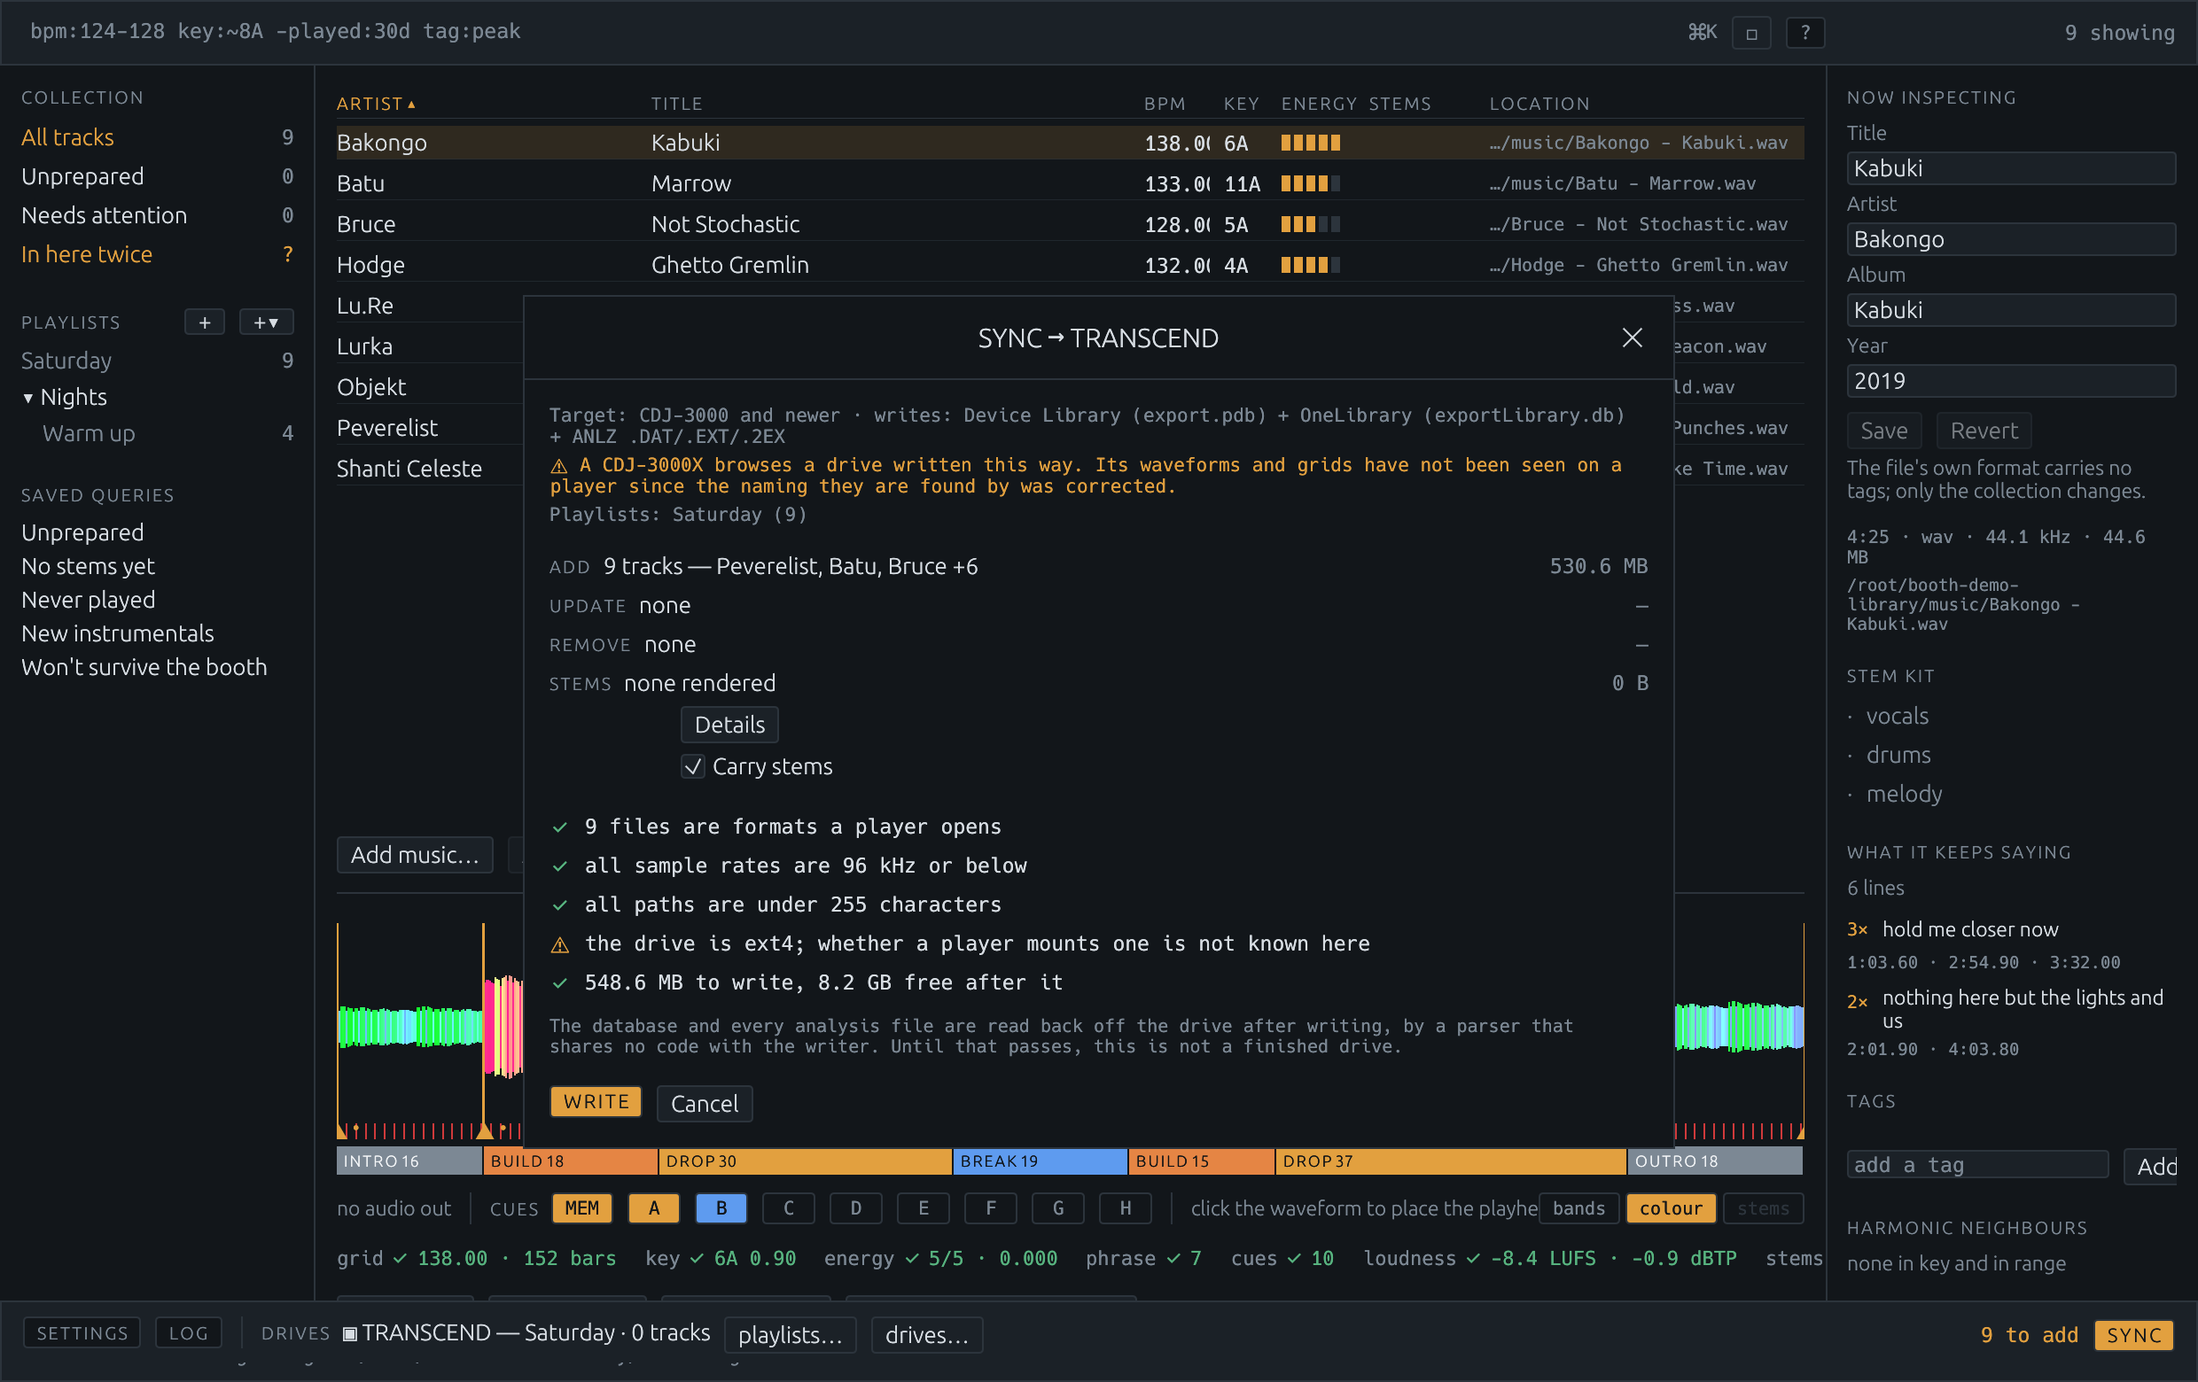
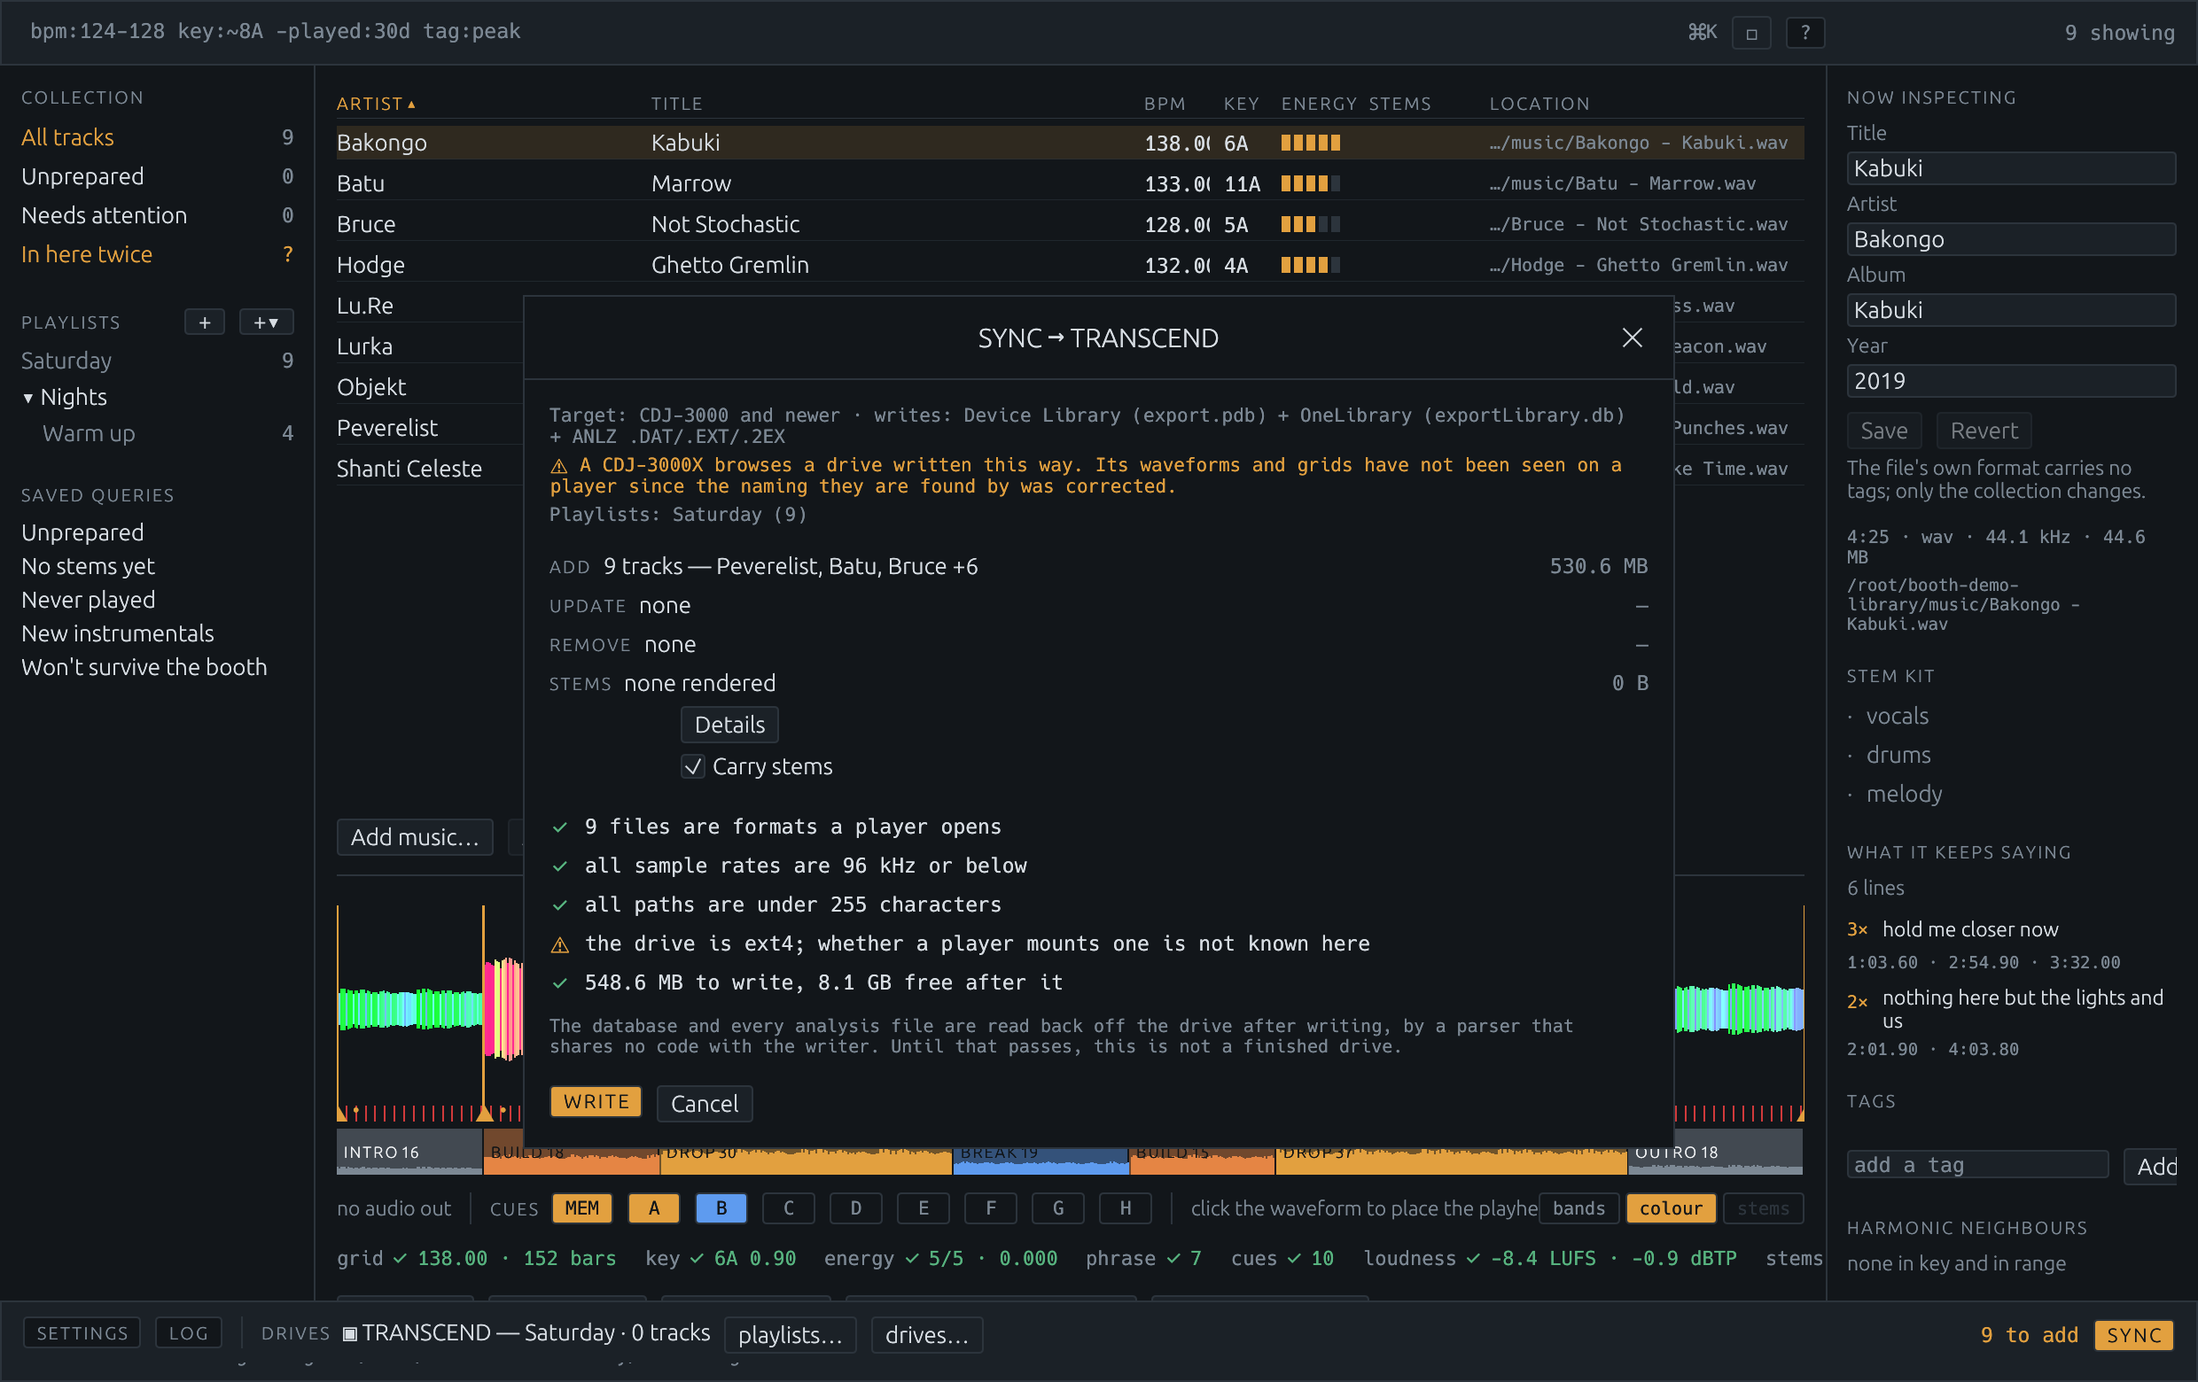
Put the shape of the music under the sections
The phrase strip was a row of flat colour blocks. It said which part of
the record you were looking at and nothing about what the part sounded
like, which left a sixteen-point band under a waveform doing a job a
caption could have done.

So each block now carries the music inside it: the block dimmed to make a
ground, and a silhouette of the track's own loudness standing on the floor
of the strip in the section's colour. Half a waveform rather than a
mirrored one, because mirrored leaves thirteen points either side of a
centre line and the shape comes out as mush — standing on the floor it
gets the whole height, and the eye reads the top edge as the tune. The
strip is ten points taller to pay for it, since at sixteen there was
nothing left after the label.

Measured the same way the picture above it is, so the two are the same
measurement drawn twice rather than two guesses.

**And stretched when the record is flat.** A modern club master runs
within a few decibels of itself from end to end; drawn honestly against
full scale that is a rectangle, which is true and says nothing about where
the break is — the one thing this strip is read for. Below about a third
of full scale of swing between the quiet parts and the loud ones, the
picture is scaled to fill the strip instead, and the hover says so,
because a stretched picture is not the one above it and somebody comparing
the two deserves to know.

Three things it deliberately does not do. The ends of the range are the
[…]

diff --git a/booth/src/wave.rs b/booth/src/wave.rs
@@ -15,7 +15,12 @@ use crate::theme;
 /// How tall the waveform draws, in points.
 pub const HEIGHT: f32 = 132.0;
 /// The strip of phrase names under it.
-pub const STRIP_HEIGHT: f32 = 16.0;
+///
+/// Taller than the sixteen points it was when it held nothing but a label,
+/// because it now carries the shape of the music as well: at sixteen the
+/// silhouette had about eight points of swing left after the text, which is
+/// not enough to tell a build from a break.
+pub const STRIP_HEIGHT: f32 = 26.0;
 
 /// The bytes in one column of the three-band preview, as the format stores
 /// them: mid, high, low.
@@ -932,12 +937,85 @@ fn phrase_help(phrase: &Phrase, beat_ms: &[u32]) -> String {
     }
 }
 
+/// How much of the strip's height the loudest part of the record fills.
+///
+/// Not all of it: a silhouette that touches the top edge reads as clipped, and
+/// the label has to stay legible over the loud parts.
+const SILHOUETTE: f32 = 0.78;
+
+/// Below this much swing between the quiet parts and the loud ones, the
+/// picture is stretched to fill the strip.
+///
+/// A modern club master is limited to within a few decibels of itself from end
+/// to end. Drawn honestly against full scale that is a rectangle — true, and
+/// it says nothing about where the break is, which is the one thing this strip
+/// is read for. Measured on the records this was built against, a dynamic
+/// record swings by about 0.6 of full scale across its sections and a limited
+/// one by under 0.2.
+const FLAT_ENOUGH: f32 = 0.35;
+
+/// How tall the quietest part is drawn after a stretch.
+///
+/// Not zero. Stretching a flat master onto the full height makes its quietest
+/// bar nothing at all, which reads as silence — and silence is a thing the
+/// record could have had and does not. A short bar says "quieter"; no bar says
+/// something untrue.
+const STRETCHED_FLOOR: f32 = 0.18;
+
+/// The level of each pixel of the strip, and whether it had to be stretched to
+/// be worth looking at.
+///
+/// One number per pixel: the loudest column it covers, by the same weighting
+/// the drive is written with, so the silhouette here and the picture above it
+/// are made of the same measurement.
+fn silhouette(bands: &[u8], width: usize, zoom: Zoom) -> (Vec<f32>, bool) {
+    let columns = bands.len() / COLUMN;
+    if columns == 0 || width == 0 {
+        return (Vec::new(), false);
+    }
+    let column_at = |fraction: f32| {
+        ((zoom.into_track(fraction) * columns as f64) as usize).min(columns.saturating_sub(1))
+    };
+    let mut levels = Vec::with_capacity(width);
+    for pixel in 0..width {
+        let from = column_at(pixel as f32 / width as f32);
+        let to = column_at((pixel + 1) as f32 / width as f32).max(from + 1);
+        let mut peak = 0.0f32;
+        for index in from..to.min(columns) {
+            let at = index * COLUMN;
+            let byte = |offset: usize| bands.get(at + offset).copied().unwrap_or(0) as f32 / 255.0;
+            peak = peak.max(loudness(byte(2), byte(0), byte(1)));
+        }
+        levels.push(peak);
+    }
+
+    // The ends of the range taken off the fifth and ninety-fifth of the sorted
+    // levels rather than off the smallest and largest. One silent gap between
+    // tracks, or one column that happens to clip, would otherwise set the whole
+    // scale and leave everything else in the middle of it.
+    let mut sorted = levels.clone();
+    sorted.sort_by(f32::total_cmp);
+    let quiet = sorted[sorted.len() * 5 / 100];
+    let loud = sorted[(sorted.len() * 95 / 100).min(sorted.len() - 1)];
+    let swing = loud - quiet;
+    if swing >= FLAT_ENOUGH || swing <= f32::EPSILON {
+        return (levels, false);
+    }
+
+    for level in &mut levels {
+        let within = ((*level - quiet) / swing).clamp(0.0, 1.0);
+        *level = STRETCHED_FLOOR + (1.0 - STRETCHED_FLOOR) * within;
+    }
+    (levels, true)
+}
+
 pub fn phrase_strip(
     ui: &mut Ui,
     phrases: &[Phrase],
     duration_secs: f64,
     beat_ms: &[u32],
     zoom: Zoom,
+    bands: &[u8],
 ) -> Strip {
     let width = ui.available_width();
     // Draggable whatever the zoom is: there is nowhere to scroll to at full
@@ -952,6 +1030,12 @@ pub fn phrase_strip(
     if phrases.is_empty() || duration_secs <= 0.0 {
         return strip;
     }
+    // Measured once for the whole strip rather than per block, because the
+    // stretch has to be decided across the record: worked out per section, a
+    // break and a drop would each fill their own block and the strip would say
+    // they were the same loudness.
+    let (levels, stretched) = silhouette(bands, rect.width().max(0.0) as usize, zoom);
+
     let total_ms = duration_secs * 1000.0;
     // The same two mappings the waveform uses, so a boundary is drawn, grabbed
     // and dropped at the moment it belongs to whatever the view is.
@@ -978,7 +1062,39 @@ pub fn phrase_strip(
             continue;
         }
         let color = theme::phrase_color(&phrase.kind);
-        painter.rect_filled(block, 0.0, color);
+        // The block, then the shape of the music inside it. The block is dimmed
+        // so the silhouette has somewhere to stand out from and the label stays
+        // readable over both; it is still the section's own colour, because
+        // what the strip is first read for is which part this is.
+        painter.rect_filled(block, 0.0, color.gamma_multiply(0.45));
+
+        // Half a waveform rather than a mirrored one. Mirrored, the strip would
+        // have thirteen points either side of a centre line and the shape would
+        // be mush; standing on the floor it gets the whole height, and the eye
+        // reads the top edge as the tune.
+        if !levels.is_empty() {
+            let floor = block.bottom();
+            let reach = block.height() * SILHOUETTE;
+            let seen = block.intersect(rect);
+            let first = (seen.left() - rect.left()).floor().max(0.0) as usize;
+            let last = (seen.right() - rect.left()).ceil().max(0.0) as usize;
+            for (pixel, level) in levels.iter().enumerate().take(last.min(levels.len())).skip(first)
+            {
+                let x = rect.left() + pixel as f32;
+                if x < block.left() || x >= block.right() {
+                    continue;
+                }
+                let tall = level * reach;
+                if tall <= 0.0 {
+                    continue;
+                }
+                painter.rect_filled(
+                    Rect::from_min_max(egui::pos2(x, floor - tall), egui::pos2(x + 1.0, floor)),
+                    0.0,
+                    color,
+                );
+            }
+        }
 
         // What this section is and why it came out that way. Only the one the
         // pointer is over: a strip that explained all five at once would be a
@@ -1033,10 +1149,20 @@ pub fn phrase_strip(
         Some(about) => response.on_hover_text(about),
         // Still says what the strip is for when the pointer is between blocks
         // or past the end of the record.
-        None => response.on_hover_text(
-            "The arrangement, section by section. Drag a boundary to move it, or the strip \
-             itself to pan. Rest on a section to read why it is called what it is.",
-        ),
+        None => response.on_hover_text(match stretched {
+            false => "The arrangement, section by section, over the shape of the music. Drag a \
+                      boundary to move it, or the strip itself to pan. Rest on a section to \
+                      read why it is called what it is."
+                .to_string(),
+            // Said rather than left to be noticed. A stretched picture is not
+            // the same picture as the waveform above it, and somebody
+            // comparing the two deserves to know which one they are reading.
+            true => "The arrangement, section by section, over the shape of the music — \
+                     stretched, because this master runs at nearly one level from end to end \
+                     and drawn honestly it would be a rectangle. Heights here are relative to \
+                     each other, not to full scale."
+                .to_string(),
+        }),
     };
 
     // Which section the pointer is over, and which boundary — if any — it is
@@ -1192,6 +1318,100 @@ mod tests {
         columns.iter().flatten().copied().collect()
     }
 
+    /// A record whose columns all sit at `level`, except where `loud` says
+    /// otherwise. One column a pixel at the widths these tests use.
+    fn at_levels(levels: &[u8]) -> Vec<u8> {
+        bands(&levels.iter().map(|level| [*level; 3]).collect::<Vec<_>>())
+    }
+
+    mod the_shape_under_the_sections {
+        use super::*;
+
+        #[test]
+        fn a_record_that_already_swings_is_drawn_as_it_is() {
+            // A quiet intro, a loud drop. Nothing to fix: the picture is
+            // already saying where the record moves.
+            let mut levels = vec![20u8; 50];
+            levels.extend(std::iter::repeat_n(250u8, 50));
+            let (shown, stretched) = silhouette(&at_levels(&levels), 100, Zoom::default());
+
+            assert!(!stretched, "a dynamic record was stretched");
+            assert!(shown[10] < 0.4, "the quiet half came out loud: {}", shown[10]);
+            assert!(shown[90] > 0.8, "the loud half came out quiet: {}", shown[90]);
+        }
+
+        #[test]
+        fn a_master_limited_flat_is_stretched_until_it_says_something() {
+            // The case this exists for: a club record mastered to within a few
+            // decibels of itself from end to end. Drawn honestly it is a
+            // rectangle, which is true and tells nobody where the break is.
+            let mut levels = vec![200u8; 50];
+            levels.extend(std::iter::repeat_n(215u8, 50));
+            let (shown, stretched) = silhouette(&at_levels(&levels), 100, Zoom::default());
+
+            assert!(stretched, "a flat master was left as a rectangle");
+            assert!(
+                shown[90] - shown[10] > 0.5,
+                "the stretch did not separate the two halves: {} against {}",
+                shown[10],
+                shown[90]
+            );
+        }
+
+        #[test]
+        fn a_stretched_picture_never_draws_a_quiet_part_as_silence() {
+            // Mapping the quietest part to nothing would say the record has
+            // silence in it, which is a thing it could have had and does not.
+            let mut levels = vec![200u8; 50];
+            levels.extend(std::iter::repeat_n(215u8, 50));
+            let (shown, _) = silhouette(&at_levels(&levels), 100, Zoom::default());
+
+            assert!(
+                shown.iter().all(|level| *level >= STRETCHED_FLOOR - f32::EPSILON),
+                "{shown:?}"
+            );
+        }
+
+        #[test]
+        fn one_silent_gap_does_not_set_the_scale_for_the_whole_record() {
+            // The reason the ends of the range are percentiles rather than the
+            // smallest and largest. A single column of nothing — a gap between
+            // two cuts, a drop-out — would otherwise be the floor, and the
+            // quiet half and the loud half would both be squashed into the top
+            // of the strip and look alike.
+            let mut levels = vec![200u8; 50];
+            levels.extend(std::iter::repeat_n(215u8, 49));
+            levels[40] = 0;
+            let (shown, stretched) = silhouette(&at_levels(&levels), 99, Zoom::default());
+
+            assert!(stretched, "{shown:?}");
+            assert!(
+                shown[90] - shown[10] > 0.5,
+                "one silent column flattened the rest: {} against {}",
+                shown[10],
+                shown[90]
+            );
+        }
+
+        #[test]
+        fn a_record_at_one_level_from_end_to_end_is_left_alone() {
+            // Nothing to reveal. Stretching a picture with no variation in it
+            // at all would turn rounding into a shape, which is a picture of
+            // nothing presented as a picture of something.
+            let (shown, stretched) = silhouette(&at_levels(&[200u8; 99]), 99, Zoom::default());
+
+            assert!(!stretched);
+            assert!(shown.windows(2).all(|pair| pair[0] == pair[1]), "{shown:?}");
+        }
+
+        #[test]
+        fn a_track_with_no_picture_yet_draws_no_shape() {
+            let (shown, stretched) = silhouette(&[], 100, Zoom::default());
+            assert!(shown.is_empty());
+            assert!(!stretched);
+        }
+    }
+
     fn wave(bytes: &[u8]) -> Waveform<'_> {
         Waveform {
             bands: bytes,
@@ -1269,7 +1489,7 @@ mod tests {
         let asked = std::cell::RefCell::new(Strip::default());
         let view = std::cell::Cell::new(zoom);
         let mut harness = Harness::new_ui(|ui| {
-            let strip = phrase_strip(ui, &phrases, 90.0, &grid(90_000, 128.0), view.get());
+            let strip = phrase_strip(ui, &phrases, 90.0, &grid(90_000, 128.0), view.get(), &[]);
             if let Some(moved) = strip.zoom {
                 view.set(moved);
                 asked.borrow_mut().zoom = Some(moved);
@@ -1471,7 +1691,8 @@ mod tests {
         let phrases = sections(&[(0, 30_000, "intro"), (30_000, 90_000, "drop")]);
         let asked = std::cell::RefCell::new(None);
         let mut harness = Harness::new_ui(|ui| {
-            let strip = phrase_strip(ui, &phrases, 90.0, &grid(90_000, 128.0), Zoom::default());
+            let strip =
+                phrase_strip(ui, &phrases, 90.0, &grid(90_000, 128.0), Zoom::default(), &[]);
             if strip.edit.is_some() {
                 *asked.borrow_mut() = strip.edit.clone();
             }

diff --git a/booth/src/app.rs b/booth/src/app.rs
@@ -5177,8 +5177,14 @@ impl App {
         // borrows the cached picture out of the window's own state, and that
         // borrow has to be finished with before the panel changes anything.
         let shown = wave::show(ui, &waveform);
-        let strip =
-            wave::phrase_strip(ui, &track.phrases, track.duration_secs, &beat_ms, shown.zoom);
+        let strip = wave::phrase_strip(
+            ui,
+            &track.phrases,
+            track.duration_secs,
+            &beat_ms,
+            shown.zoom,
+            bands,
+        );
         let zoom = strip.zoom.unwrap_or(shown.zoom);
         if let Some(edit) = strip.edit {
             self.pending.push(Pending::EditPhrase { id: track.id, edit });
